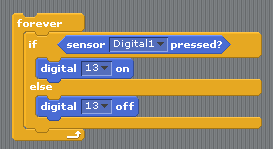
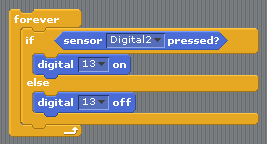
first proper draft of week 1 worksheet

Changed region(s): [[0.03, 0.0556, 0.9888, 0.9722], [0.2097, 0.7778, 0.2397, 0.8056]]

diff --git a/_posts/2015-04-30-week-1-worksheet.md b/_posts/2015-04-30-week-1-worksheet.md
@@ -1,5 +1,5 @@
 ---
-title: Week 1 Worksheet
+title: Week 1 - Worksheet
 ---
 
 <a href="http://s4a.cat">Scratch 4 Arduino</a> is a custom version of scratch that makes it super easy to get up and running with Arduino programming. This worksheet is going to show you how to get set up and start making your first programs using S4A.
@@ -21,11 +21,42 @@ If you go to the blue "Motion" section at the top left, you should see all of S4
 ![block_digitalPinOn](../img/block_digitalPinOn.png "block_digitalPinOn")
 ![block_digitalPinOff](../img/block_digitalPinOff.png "block_digitalPinOff")
 
-These let us turn pins 10-13 on or off. It just so happens that the Arduino has an LED light already attached to pin 13. Try dragging these blocks into your workspace, turn the LED on and off and see if you can spot it on the board.
+These let us turn pins 10-13 on or off. The Arduino has an LED light already attached to pin 13. Try dragging these blocks into your workspace, turn the LED on and off and see if you can spot where it is on the board.
 
-So there are a whole bunch of different ways we can control stuff in Scratch. Let's 
+# Controlling the onboard LED
 
-TODO : List all blocks? Maybe just look at pin 13, and poke about with analog out and digital in pins
+There are a whole bunch of different ways we can control stuff in Scratch. Let's look at a few interesting ways of turning our light on and off.
+
+### Looping
+![LED blink](../img/LED blink.png "LED blink")
+This will blink your LED on and off every second (with S4A the fastest this can be is every 0.7 seconds)
+
+### Mouse Control
+![LED mouse](../img/LED mouse.png "LED mouse")
+This turns the LED on whenever your mouse button is pressed
+
+### Keyboard Control
+![LED keyboard](../img/LED keyboard.png "LED keyboard")
+These turn the LED on when you press the left arrow key, and off when you press the right arrow key.
+
+You may well have used some (or all) of these methods before to control your scratch projects. One of the cool things that we can do with an Arduino that we can't do in Scratch is use the Arduino's pins as inputs. Here is a diagram showing you how to set up a simple circuit to use digital pin 2 as a switch.
+
+## INSERT CIRCUIT DIAGRAM
+
+### Digital Sensor Control
+![LED digitalSwitch](../img/LED digitalSwitch.png "LED digitalSwitch")
+When you connect the switch the LED will turn on, and when it's not connected it will be off.
+
+With this circuit, you can now use your switch to control things in Sratch too! try getting something to happen in scratch whenever your LED lights up.
+
+### Controlling an external LED
+
+So Scratch's onboard LED is OK, but it's not the brightest LED in the world, and we have no way of putting it where we want, or changing it's colour or anything. This circuit shows you how to attach an external LED to pin 13.
+
+## INSERT CIRCUIT DIAGRAM
+
+Because this is on the same pin as the onboard LED, we don't have to change any of our scripts for this to work.
+
 
 <!---
 ![block_analogPinValue](../img/block_analogPinValue.png "block_analogPinValue")
@@ -43,5 +74,3 @@ TODO : List all blocks? Maybe just look at pin 13, and poke about with analog ou
 ![block_sensorPressed](../img/block_sensorPressed.png "block_sensorPressed")
 ![block_valueOfSensor](../img/block_valueOfSensor.png "block_valueOfSensor")
 -->
-
-TODO : Add all the examples of different ways to control the onboard LED
